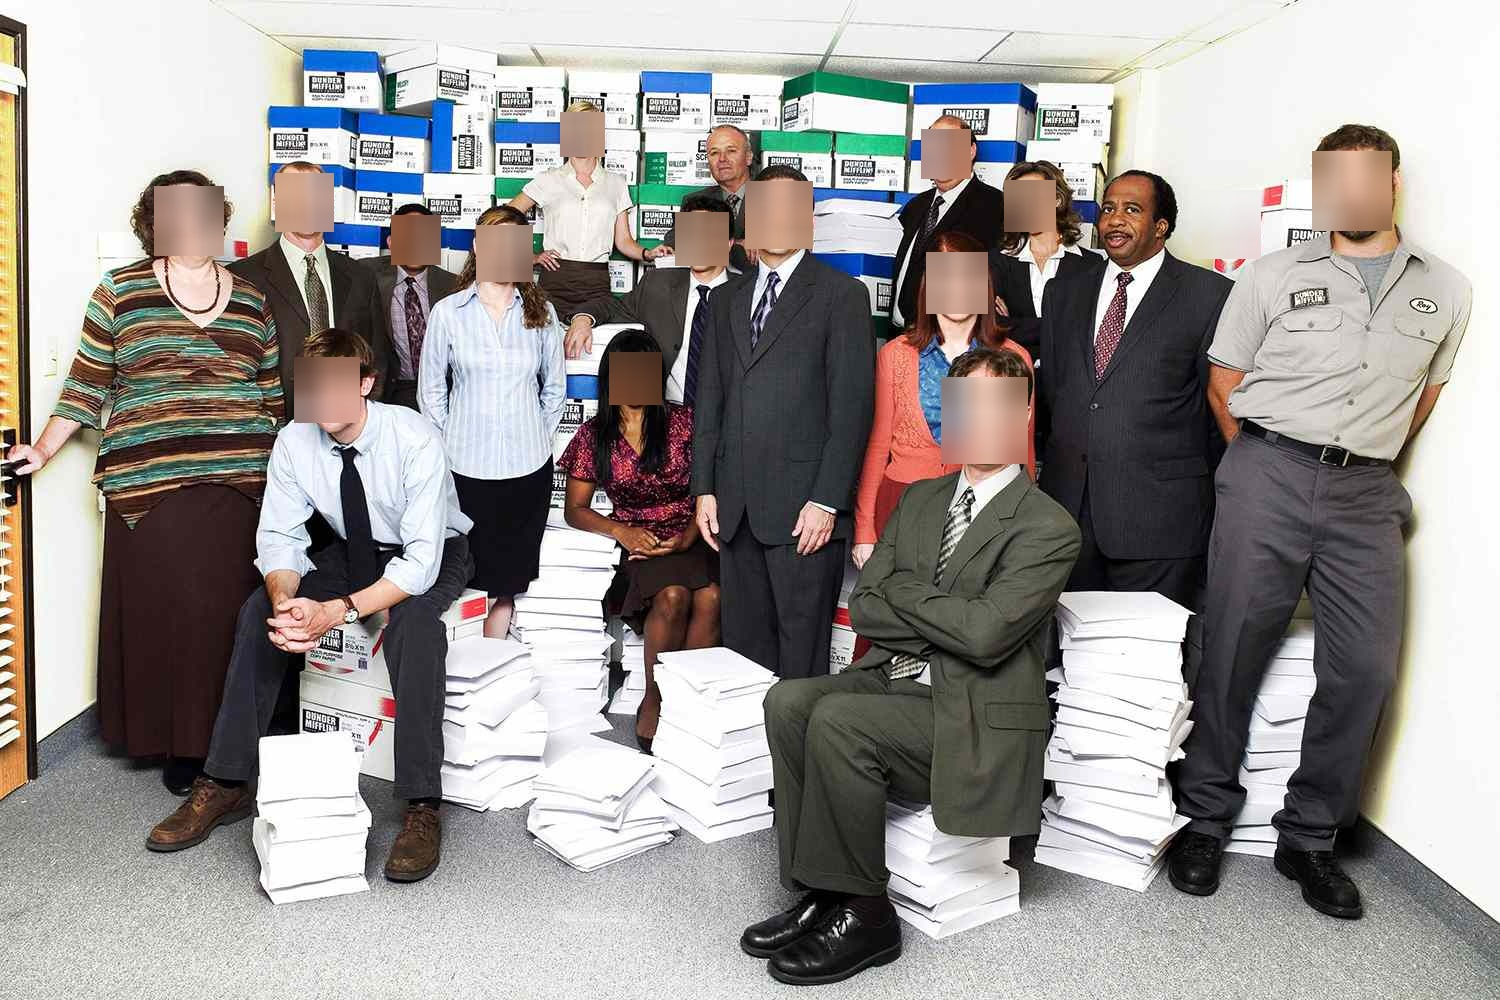
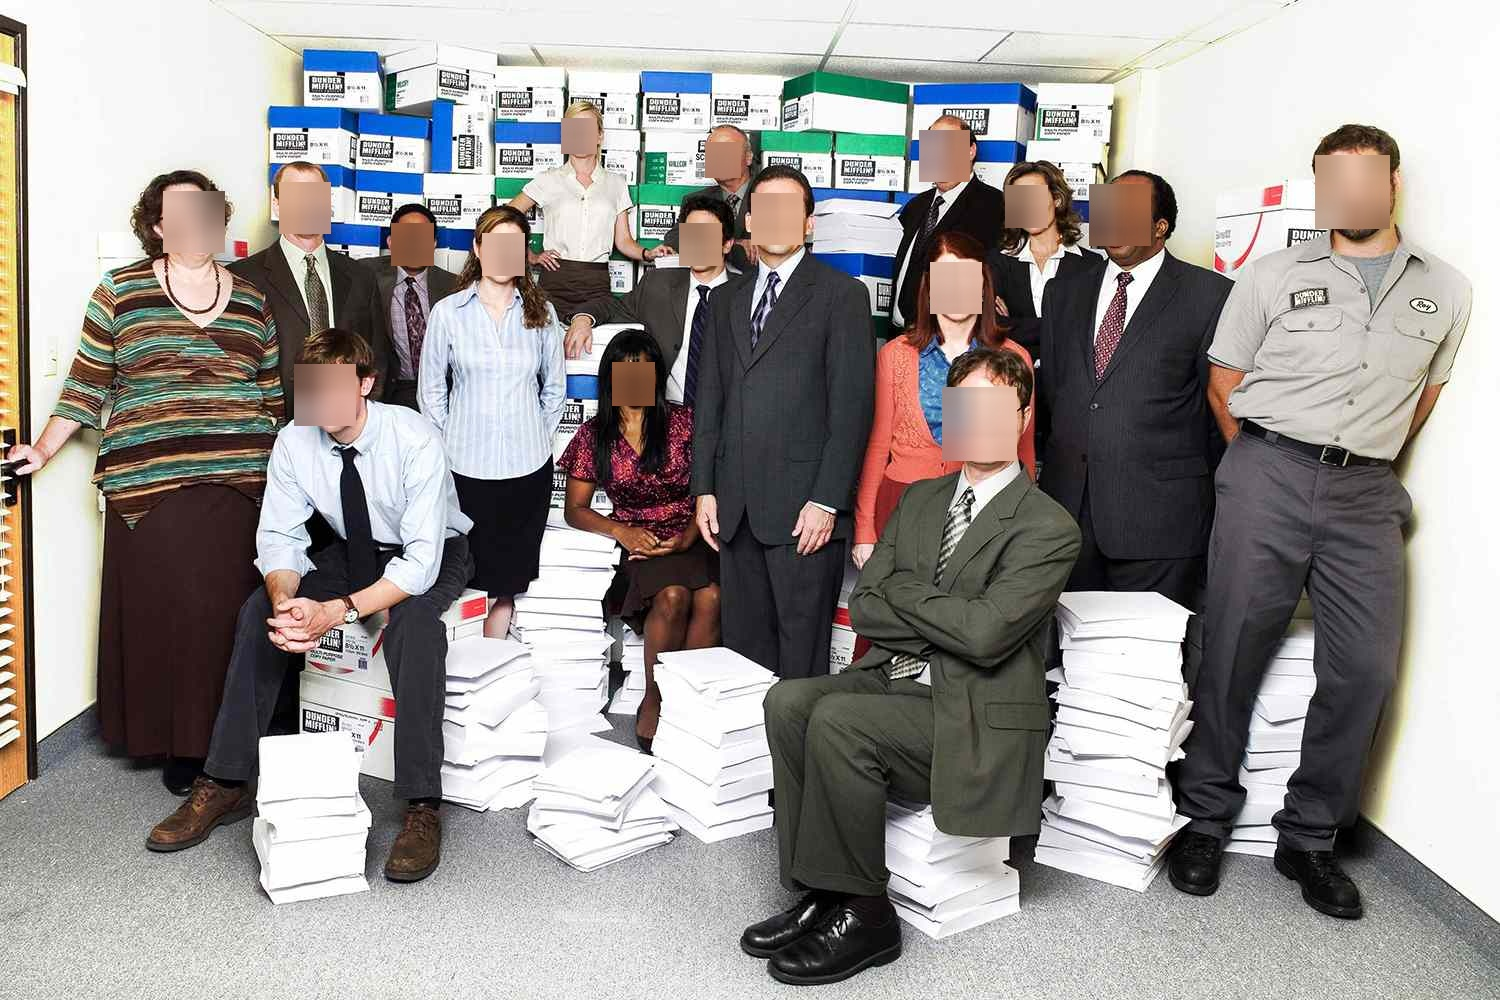
Improve image redaction with better face and PII detection
Replaced Haar cascade face detection with face_recognition for improved accuracy.
Added a custom Presidio recognizer for full credit card numbers and implemented merging of nearby OCR boxes to enhance PII detection and blurring.
Updated blurred output and added new sample credit card images.

diff --git a/app.py b/app.py
@@ -1,29 +1,88 @@
 import os
 import cv2
 import easyocr
-from presidio_analyzer import AnalyzerEngine
+import numpy as np
+from presidio_analyzer import AnalyzerEngine, PatternRecognizer, Pattern
+import face_recognition
 
+# Initialize OCR
 reader = easyocr.Reader(['en'])
+
+# Initialize Presidio analyzer
 analyzer = AnalyzerEngine()
-face_cascade = cv2.CascadeClassifier(cv2.data.haarcascades + "haarcascade_frontalface_default.xml")
+
+# Custom recognizer for full credit card numbers
+cc_pattern = Pattern(
+    name="credit_card_full",
+    regex=r"\b(?:\d[ -]*?){13,16}\b",  # 13-16 digits with optional spaces/dashes
+    score=0.9
+)
+cc_recognizer = PatternRecognizer(supported_entity="CREDIT_CARD", patterns=[cc_pattern])
+analyzer.registry.add_recognizer(cc_recognizer)
+
+# TODO: add more custom recognizers (driver's license, passport, etc.)
+
+def merge_boxes(results, x_threshold=10, y_threshold=10):
+    """
+    Merge OCR boxes that are close horizontally and vertically.
+    Returns list of tuples: (merged_text, merged_bbox)
+    """
+    merged = []
+    used = set()
+
+    for i, (bbox1, text1, prob1) in enumerate(results):
+        if i in used:
+            continue
+        x1s = [p[0] for p in bbox1]
+        y1s = [p[1] for p in bbox1]
+        x_min = min(x1s)
+        x_max = max(x1s)
+        y_min = min(y1s)
+        y_max = max(y1s)
+        merged_text = text1
+
+        for j, (bbox2, text2, prob2) in enumerate(results):
+            if j <= i or j in used:
+                continue
+            x2s = [p[0] for p in bbox2]
+            y2s = [p[1] for p in bbox2]
+            x2_min, x2_max = min(x2s), max(x2s)
+            y2_min, y2_max = min(y2s), max(y2s)
+
+            # if boxes are close horizontally and vertically, merge
+            if abs(x_min - x2_min) < x_threshold and abs(y_min - y2_min) < y_threshold:
+                x_min = min(x_min, x2_min)
+                x_max = max(x_max, x2_max)
+                y_min = min(y_min, y2_min)
+                y_max = max(y_max, y2_max)
+                merged_text += " " + text2
+                used.add(j)
+
+        merged_bbox = [(x_min, y_min), (x_max, y_min), (x_max, y_max), (x_min, y_max)]
+        merged.append((merged_bbox, merged_text))
+
+    return merged
 
 def redact_image(input_path, output_path):
     img = cv2.imread(input_path)
 
-    # Detect faces
-    gray = cv2.cvtColor(img, cv2.COLOR_BGR2GRAY)
-    faces = face_cascade.detectMultiScale(gray, 1.3, 5)
-    for (x, y, w, h) in faces:
-        roi = img[y:y+h, x:x+w]
-        img[y:y+h, x:x+w] = cv2.GaussianBlur(roi, (55, 55), 30)
+    # Detect faces using face_recognition
+    rgb_img = cv2.cvtColor(img, cv2.COLOR_BGR2RGB)
+    face_locations = face_recognition.face_locations(rgb_img)
+    for top, right, bottom, left in face_locations:
+        roi = img[top:bottom, left:right]
+        img[top:bottom, left:right] = cv2.GaussianBlur(roi, (55, 55), 30)
 
-    # Detect text regions
+    # OCR text detection
     results = reader.readtext(img)
 
-    for (bbox, text, prob) in results:
+    # Merge nearby OCR boxes
+    merged_results = merge_boxes(results)
+
+    # PII detection + blur
+    for bbox, text in merged_results:
         pii_results = analyzer.analyze(text=text, language="en")
         if pii_results:
-            # Blur the text bounding box
             tl, tr, br, bl = bbox
             x_coords = [tl[0], tr[0], br[0], bl[0]]
             y_coords = [tl[1], tr[1], br[1], bl[1]]
@@ -33,13 +92,13 @@ def redact_image(input_path, output_path):
             roi = img[y_min:y_max, x_min:x_max]
             img[y_min:y_max, x_min:x_max] = cv2.GaussianBlur(roi, (25, 25), 30)
 
+    # Save output
     os.makedirs(os.path.dirname(output_path), exist_ok=True)
-
     cv2.imwrite(output_path, img)
     print(f"Blurred image saved as {output_path}")
 
 if __name__ == "__main__":
-    input_path = "uploads/faces.jpg"
+    input_path = "uploads/faces.jpg" # edit this
     output_path = "output/blurred_output.jpg"
     redact_image(input_path, output_path)
 
